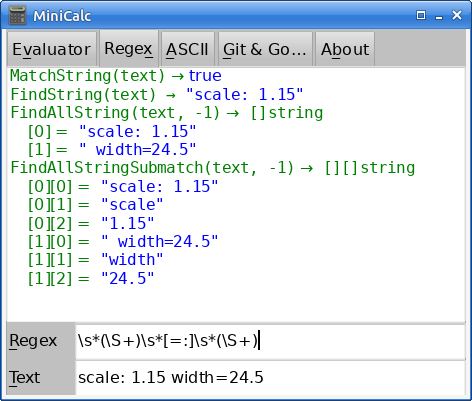
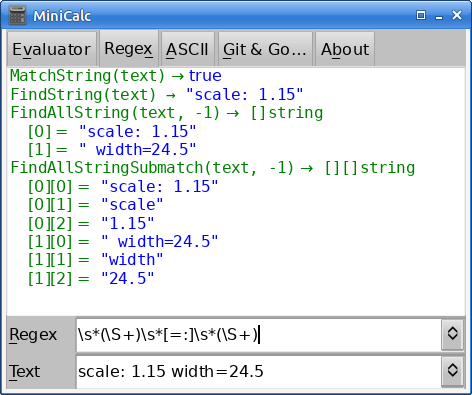
another InputChoice

diff --git a/regex_tab.go b/regex_tab.go
@@ -21,7 +21,7 @@ func makeRegexTab(app *App, x, y, width, height int) {
 	}
 	hbox := makeRegexRow(app, x, y, width, height, hoffset)
 	vbox.Fixed(hbox, BUTTON_HEIGHT)
-	textInput, hbox := makeTextRow(app, x, y, width, height, hoffset)
+	hbox = makeTextRow(app, x, y, width, height, hoffset)
 	vbox.Fixed(hbox, BUTTON_HEIGHT)
 	vbox.End()
 	group.End()
@@ -29,11 +29,14 @@ func makeRegexTab(app *App, x, y, width, height int) {
 	group.End()
 	app.regexInput.SetCallback(func() {
 		updateInputChoice(app.regexInput)
-		onRegex(app, textInput)
+		onRegex(app)
 	})
-	textInput.SetCallback(func() { onRegex(app, textInput) })
+	app.regexTextInput.SetCallback(func() {
+		updateInputChoice(app.regexTextInput)
+		onRegex(app)
+	})
 	if !app.config.ShowIntialHelpText {
-		onRegex(app, textInput)
+		onRegex(app)
 	}
 	app.regexInput.TakeFocus()
 }
@@ -55,24 +58,26 @@ func makeRegexRow(app *App, x, y, width, height, hoffset int) *fltk.Flex {
 	return hbox
 }
 
-func makeTextRow(app *App, x, y, width, height, hoffset int) (*fltk.Input,
-	*fltk.Flex) {
+func makeTextRow(app *App, x, y, width, height, hoffset int) *fltk.Flex {
 	hbox := fltk.NewFlex(x, height-BUTTON_HEIGHT, width, BUTTON_HEIGHT)
 	hbox.SetType(fltk.ROW)
 	textLabel := makeAccelLabel(0, 0, LABEL_WIDTH, BUTTON_HEIGHT, "&Text")
-	textInput := fltk.NewInput(0, BUTTON_HEIGHT, width-LABEL_WIDTH,
-		BUTTON_HEIGHT)
-	textInput.SetValue("scale: 1.15 width=24.5")
-	textLabel.SetCallback(func() { textInput.TakeFocus() })
-	textInput.SetCallbackCondition(fltk.WhenEnterKeyChanged)
+	app.regexTextInput = fltk.NewInputChoice(0, BUTTON_HEIGHT,
+		width-LABEL_WIDTH, BUTTON_HEIGHT)
+	text := "scale: 1.15 width=24.5"
+	app.regexTextInput.SetValue(text)
+	app.regexTextInput.MenuButton().AddEx(text, 0,
+		func() { app.regexTextInput.Input().SetValue(text) }, 0)
+	textLabel.SetCallback(func() { app.regexTextInput.TakeFocus() })
+	app.regexTextInput.SetCallbackCondition(fltk.WhenEnterKeyChanged)
 	hbox.End()
 	hbox.Fixed(textLabel, LABEL_WIDTH)
-	return textInput, hbox
+	return hbox
 }
 
-func onRegex(app *App, textInput *fltk.Input) {
+func onRegex(app *App) {
 	regex := app.regexInput.Value()
-	text := textInput.Value()
+	text := app.regexTextInput.Value()
 	if regex != "" {
 		rx, err := regexp.Compile(regex)
 		if err != nil {

diff --git a/app.go b/app.go
@@ -17,6 +17,7 @@ type App struct {
 	evalCopyButton *fltk.MenuButton
 	regexView      *fltk.HelpView
 	regexInput     *fltk.InputChoice
+	regexTextInput *fltk.InputChoice
 	asciiView      *fltk.HelpView
 	customView     *fltk.HelpView
 }
